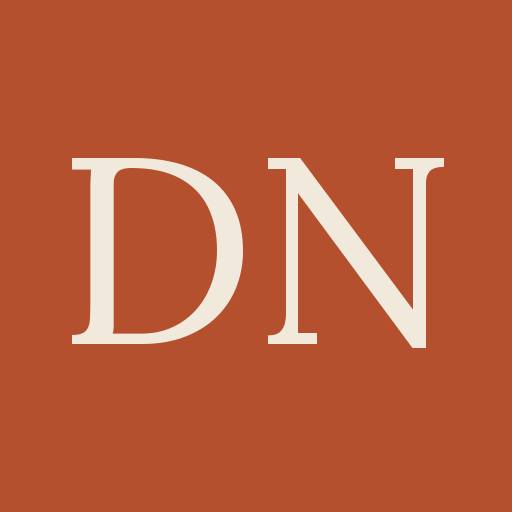
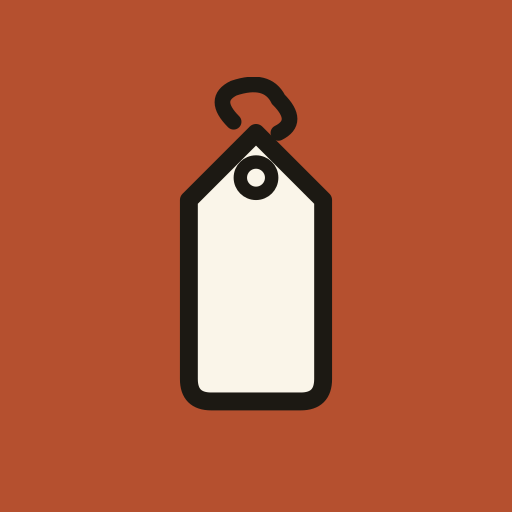
Phase 2.5 Added branding

Changed region(s): [[0.125, 0.125, 0.875, 0.8125]]

diff --git a/src/App.jsx b/src/App.jsx
@@ -154,6 +154,7 @@ const GlobalStyles = () => (
       --landed: #5E7A54;
       --missed: #9E5B50;
       --neutral: #8B7F6A;
+      --tag-fill: #FAF5E9;
     }
 
     *, *::before, *::after { box-sizing: border-box; }
@@ -185,13 +186,8 @@ const GlobalStyles = () => (
 
     .gr-header { padding: 28px 0 12px; display: flex; align-items: center; justify-content: space-between; }
     .gr-brand { display: flex; align-items: center; gap: 10px; }
-    .gr-brand-mark { position: relative; width: 28px; height: 28px; }
-    .gr-brand-mark .ring { position: absolute; inset: 0; border: 1px solid var(--ink); border-radius: 50%; }
-    .gr-brand-mark .ring.r2 { inset: 5px; opacity: 0.55; }
-    .gr-brand-mark .ring.r3 { inset: 10px; opacity: 0.3; }
-    .gr-brand-mark .dot { position: absolute; top: 3px; right: 3px; width: 6px; height: 6px; border-radius: 50%; background: var(--accent); box-shadow: 0 0 0 3px rgba(181,80,47,0.15); }
-    .gr-brand-mark .sweep { position: absolute; inset: 0; border-radius: 50%; background: conic-gradient(from 210deg, transparent 0deg, rgba(181,80,47,0.18) 40deg, transparent 80deg); animation: sweep 4.5s linear infinite; }
-    @keyframes sweep { to { transform: rotate(360deg); } }
+    .gr-brand-mark { width: 28px; height: 28px; display: inline-flex; align-items: center; justify-content: center; }
+    .gr-brand-mark svg { display: block; }
     .gr-brand-name { font-family: 'Fraunces', serif; font-weight: 400; font-style: italic; font-size: 22px; letter-spacing: -0.02em; font-variation-settings: "opsz" 144; }
     .gr-brand-name b { font-style: normal; font-weight: 500; font-family: 'Fraunces', serif; }
 
@@ -311,12 +307,8 @@ const GlobalStyles = () => (
     @keyframes rise { from { transform: translateY(20px); opacity: 0; } to { transform: translateY(0); opacity: 1; } }
 
     .gr-empty { text-align: center; padding: 48px 20px; }
-    .gr-empty-radar { width: 120px; height: 120px; margin: 0 auto 20px; position: relative; }
-    .gr-empty-radar .ring { position: absolute; inset: 0; border: 1px dashed var(--line); border-radius: 50%; }
-    .gr-empty-radar .ring.r2 { inset: 18px; opacity: 0.7; }
-    .gr-empty-radar .ring.r3 { inset: 36px; opacity: 0.5; }
-    .gr-empty-radar .ring.r4 { inset: 52px; opacity: 0.3; }
-    .gr-empty-radar .sweep { position: absolute; inset: 0; border-radius: 50%; background: conic-gradient(from 0deg, transparent 0deg, rgba(181,80,47,0.22) 60deg, transparent 100deg); animation: sweep 5s linear infinite; }
+    .gr-empty-mark { width: 120px; height: 120px; margin: 0 auto 20px; display: flex; align-items: center; justify-content: center; opacity: 0.85; }
+    .gr-empty-mark svg { display: block; width: 100%; height: 100%; }
     .gr-empty-title { font-family: 'Fraunces', serif; font-size: 22px; letter-spacing: -0.02em; margin-bottom: 6px; }
     .gr-empty-body { color: var(--ink-3); max-width: 340px; margin: 0 auto 18px; font-size: 14px; line-height: 1.55; }
 
@@ -681,12 +673,12 @@ const Dashboard = ({ data, onOpenPerson, onAddPerson }) => {
   if (data.people.length === 0) {
     return (
       <div className="gr-empty">
-        <div className="gr-empty-radar">
-          <div className="ring"></div>
-          <div className="ring r2"></div>
-          <div className="ring r3"></div>
-          <div className="ring r4"></div>
-          <div className="sweep"></div>
+        <div className="gr-empty-mark">
+          <svg viewBox="0 0 32 32" xmlns="http://www.w3.org/2000/svg" aria-hidden="true">
+            <path d="M 14 4 Q 12 2, 14 1 Q 17 0, 18 2 Q 20 4, 18 5" fill="none" stroke="var(--ink)" strokeWidth="1.4" strokeLinecap="round"/>
+            <path d="M 16 5 L 22 11 L 22 27 Q 22 29, 20 29 L 12 29 Q 10 29, 10 27 L 10 11 Z" fill="var(--tag-fill)" stroke="var(--ink)" strokeWidth="1.6" strokeLinejoin="round"/>
+            <circle cx="16" cy="9" r="1.4" fill="none" stroke="var(--ink)" strokeWidth="1.2"/>
+          </svg>
         </div>
         <div className="gr-empty-title">Nothing noted yet</div>
         <div className="gr-empty-body">
@@ -1022,11 +1014,11 @@ export default function App() {
         <div className="gr-header">
           <div className="gr-brand">
             <div className="gr-brand-mark">
-              <div className="ring"></div>
-              <div className="ring r2"></div>
-              <div className="ring r3"></div>
-              <div className="sweep"></div>
-              <div className="dot"></div>
+              <svg width="28" height="28" viewBox="0 0 32 32" xmlns="http://www.w3.org/2000/svg" aria-hidden="true">
+                <path d="M 14 4 Q 12 2, 14 1 Q 17 0, 18 2 Q 20 4, 18 5" fill="none" stroke="var(--ink)" strokeWidth="1.4" strokeLinecap="round"/>
+                <path d="M 16 5 L 22 11 L 22 27 Q 22 29, 20 29 L 12 29 Q 10 29, 10 27 L 10 11 Z" fill="var(--tag-fill)" stroke="var(--ink)" strokeWidth="1.6" strokeLinejoin="round"/>
+                <circle cx="16" cy="9" r="1.4" fill="none" stroke="var(--ink)" strokeWidth="1.2"/>
+              </svg>
             </div>
             <div className="gr-brand-name">Dearly <b>Noted</b></div>
           </div>
@@ -1059,7 +1051,7 @@ export default function App() {
           <PeopleList data={data} onOpenPerson={setOpenPersonId} onAddPerson={() => setModal('addPerson')} />
         )}
 
-        <div className="gr-footer-note">DEARLY NOTED · v0.3 · LOCAL</div>
+        <div className="gr-footer-note">DEARLY NOTED · v0.4 · LOCAL</div>
       </div>
 
       {!openPersonId && (

diff --git a/vite.config.js b/vite.config.js
@@ -20,7 +20,7 @@ export default defineConfig({
         short_name: 'Dearly Noted',
         description: 'A quiet radar for the gifts you plan to give.',
         theme_color: '#B5502F',
-        background_color: '#F1EADC',
+        background_color: '#B5502F',
         display: 'standalone',
         orientation: 'portrait',
         scope: '/',
